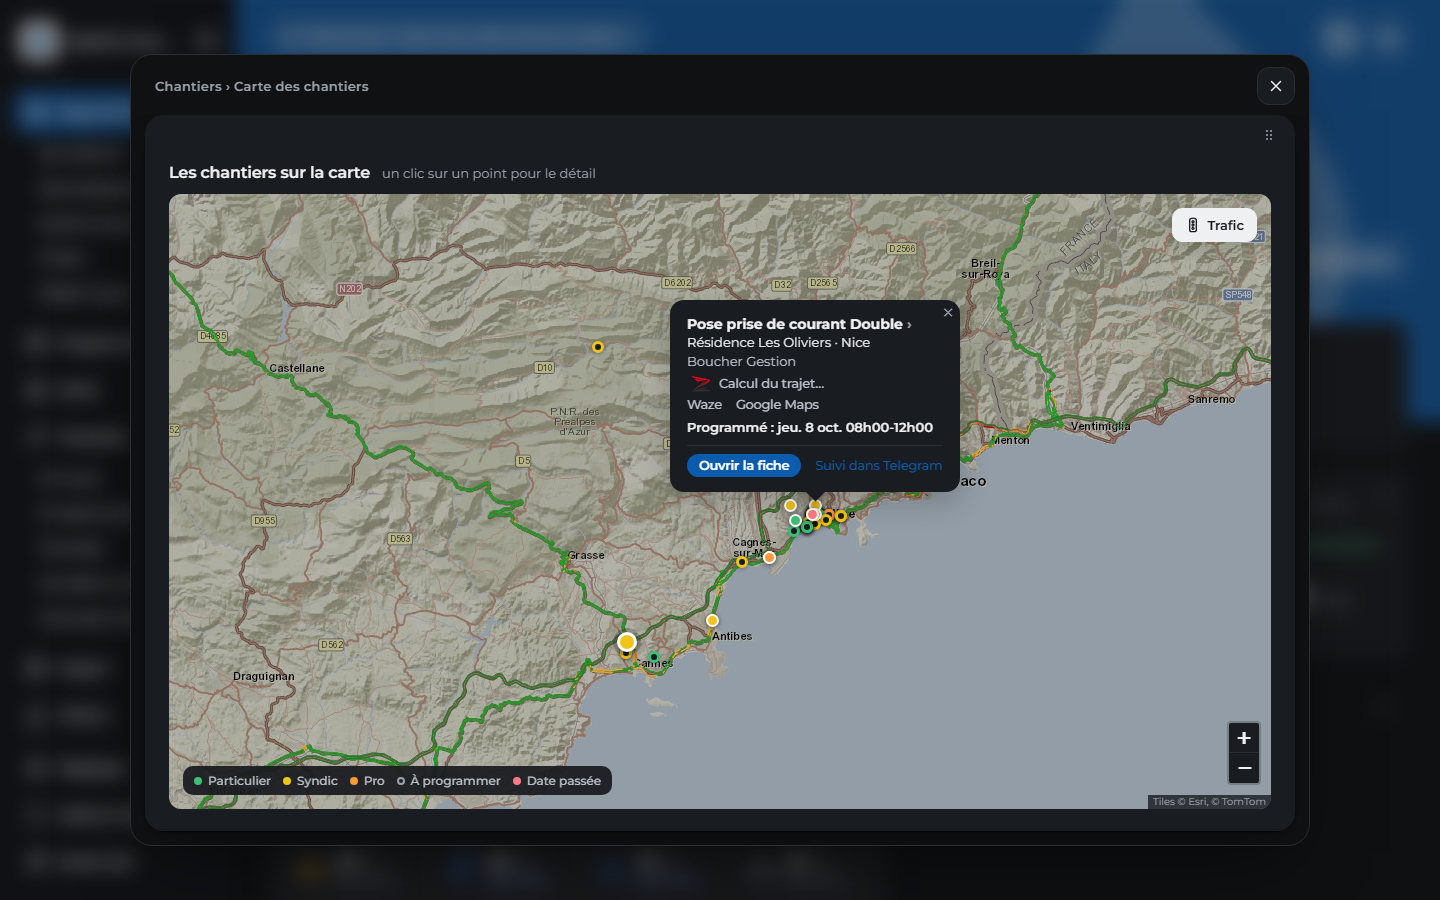
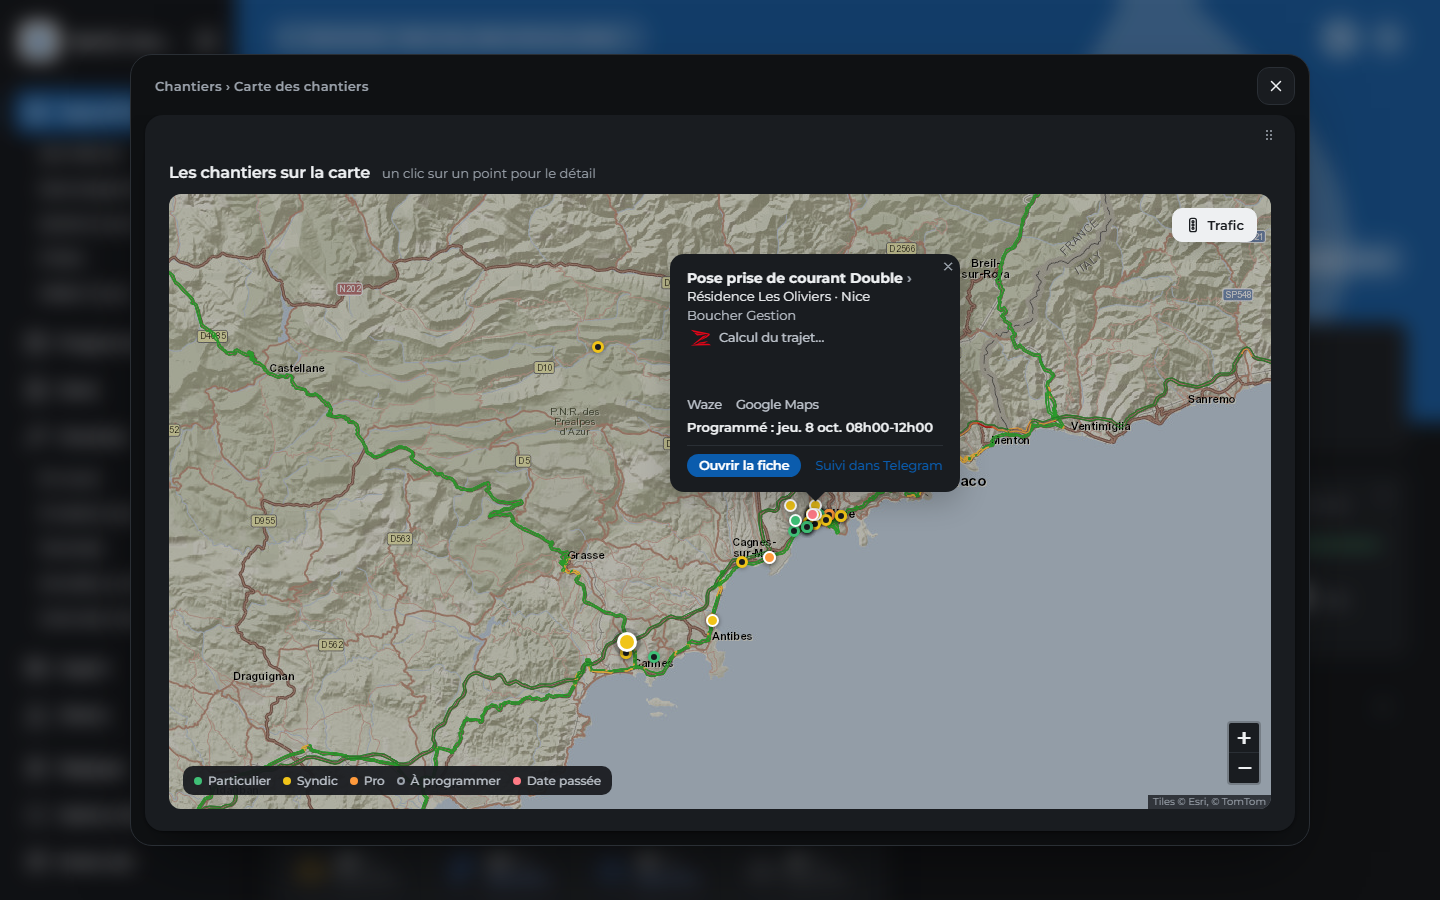
Page Zelus : trajet qui se calcule (icone Z), releve pour le comptable, plafond auto-entrepreneur (bientot)

Changed region(s): [[0.4375, 0.28, 0.6875, 0.4356], [0.4375, 0.7156, 0.4688, 0.7467]]

diff --git a/src/app/zelus/ZelusClient.jsx b/src/app/zelus/ZelusClient.jsx
@@ -416,6 +416,81 @@ const CgvDemo = () => {
   );
 };
 
+// Carte : la bulle calcule le trajet puis l'affiche (deux captures identiques hors de la ligne du trajet)
+const MapTrajet = ({ onZoom }) => {
+  const ref = useRef(null);
+  const t = useLoop(ref, 7);
+  const done = t >= 0.35 && t < 0.97;
+  return (
+    <div ref={ref} className="relative overflow-hidden rounded-2xl border border-white/10 shadow-[0_20px_60px_rgba(0,0,0,0.5)]">
+      <button type="button" onClick={() => onZoom({ src: `${IMG}/carte-trajet.png`, alt: "Carte des chantiers" })} className="block w-full">
+        <img src={`${IMG}/carte.png`} alt="Carte des chantiers : calcul du trajet en cours" className="w-full h-auto block" />
+        <img src={`${IMG}/carte-trajet.png`} alt="Carte des chantiers : trajet calculé, 22 minutes" className="absolute inset-0 w-full h-auto block transition-opacity duration-500" style={{ opacity: done ? 1 : 0 }} />
+      </button>
+    </div>
+  );
+};
+
+// Capture longue qui défile dans un cadre d'écran d'ordinateur
+const ScrollShot = ({ src, h, alt, seconds = 16, onZoom }) => {
+  const ref = useRef(null);
+  const t = useLoop(ref, seconds);
+  const k = easeIO(prog(t, 0.1, 0.85)) * (1 - prog(t, 0.93, 1));
+  const shift = (1 - 900 / h) * 100 * k;
+  return (
+    <div ref={ref} className="rounded-2xl border border-white/10 bg-neutral-900 p-2 shadow-[0_20px_60px_rgba(0,0,0,0.5)]">
+      <div className="flex items-center gap-1.5 px-2 pb-2">
+        <span className="w-2.5 h-2.5 rounded-full bg-white/15" /><span className="w-2.5 h-2.5 rounded-full bg-white/15" /><span className="w-2.5 h-2.5 rounded-full bg-white/15" />
+        <span className="ml-3 rounded-md bg-white/5 px-3 py-0.5 text-[11px] text-gray-500">myzelus.fr/tableau · Relevé comptable</span>
+      </div>
+      <button type="button" onClick={() => onZoom({ src: `${IMG}/${src}`, alt })} className="relative block w-full overflow-hidden rounded-xl aspect-[1440/900]">
+        <img src={`${IMG}/${src}`} alt={alt} className="absolute top-0 left-0 w-full" style={{ transform: `translateY(-${shift}%)` }} />
+      </button>
+    </div>
+  );
+};
+
+// Auto-entrepreneur : jauge du chiffre d'affaires de l'année face au seuil de la franchise (illustration, sans montant de seuil)
+const PlafondDemo = () => {
+  const ref = useRef(null);
+  const t = useLoop(ref, 10);
+  const pct = Math.round(easeIO(prog(t, 0.05, 0.75)) * 104);
+  const etat = pct >= 100 ? 2 : pct >= 85 ? 1 : 0;
+  const coul = ["#22c55e", "#f59e0b", "#ef4444"][etat];
+  const msgs = [
+    { t: "📊 Franchise de TVA\nEncaissé depuis le 1er janvier : " + pct + " % du seuil de l'année.", on: true },
+    { t: "⚠ Seuil de la franchise en vue\nVous approchez du seuil. Parlez-en à votre comptable.", on: etat >= 1 },
+    { t: "🔴 Seuil dépassé\nLa TVA s'applique désormais. Vos prochains devis et factures passeront avec TVA.", on: etat >= 2 },
+  ];
+  return (
+    <div ref={ref} className="space-y-4">
+      <div className="rounded-2xl border border-white/10 bg-[#121417] p-6">
+        <div className="flex items-baseline justify-between mb-3">
+          <div className="text-white font-semibold">Chiffre d'affaires de l'année</div>
+          <div className="text-3xl font-bold tabular-nums" style={{ color: coul }}>{pct} %</div>
+        </div>
+        <div className="relative h-4 rounded-full bg-white/5 overflow-hidden">
+          <div className="h-full rounded-full transition-colors duration-500" style={{ width: Math.min(pct, 100) + "%", background: coul }} />
+        </div>
+        <div className="relative h-5 mt-1 text-[11px] text-gray-500">
+          <span className="absolute -translate-x-1/2" style={{ left: "85%" }}>alerte</span>
+          <span className="absolute right-0">seuil</span>
+        </div>
+        <div className="text-xs text-gray-500 mt-1">mention « TVA non applicable, art. 293 B du CGI » sur vos devis et factures tant que vous êtes sous le seuil</div>
+      </div>
+      <div className="space-y-2">
+        {msgs.map((m, i) => (
+          <motion.div key={i} initial={false} animate={{ opacity: m.on ? 1 : 0.15, y: m.on ? 0 : 6 }} transition={{ duration: 0.4 }}
+            className="rounded-2xl rounded-bl-md bg-[#182533] border border-white/5 px-4 py-3 text-[13px] text-gray-100 whitespace-pre-line">
+            <div className="flex items-center gap-2 text-[11px] text-[#6c8aa5] mb-1"><img src={`${IMG}/icone-zelus.svg`} alt="" className="w-4 h-4" />Telegram · Zelus</div>
+            {m.t}
+          </motion.div>
+        ))}
+      </div>
+    </div>
+  );
+};
+
 // Bandeau défilant des fonctionnalités
 const Marquee = ({ items }) => {
   const reduce = useReducedMotion();
@@ -522,7 +597,7 @@ const OptionTag = ({ children }) => (
 );
 
 // Bloc fonctionnalité : texte d'un côté, visuel de l'autre, en alternance.
-const Feature = ({ id, icon: Icon, kicker, title, text, bullets, example, option, visual, reverse }) => (
+const Feature = ({ id, icon: Icon, kicker, title, text, bullets, example, option, soon, visual, reverse }) => (
   <section id={id} className="scroll-mt-28 py-16 md:py-24 border-t border-white/5">
     <div className={`grid grid-cols-1 lg:grid-cols-2 gap-12 lg:gap-16 items-center`}>
       <Reveal className={reverse ? "lg:order-2" : ""}>
@@ -532,6 +607,7 @@ const Feature = ({ id, icon: Icon, kicker, title, text, bullets, example, option
           </div>
           <span className="text-sm uppercase tracking-widest text-gray-400 font-semibold">{kicker}</span>
           {option && <OptionTag>{option}</OptionTag>}
+          {soon && <span className="inline-flex items-center rounded-full border border-sky-400/30 bg-sky-400/10 px-3 py-1 text-xs font-medium text-sky-300">Bientôt</span>}
         </div>
         <h3 className="text-3xl md:text-4xl font-semibold tracking-tight text-white mb-5">{title}</h3>
         <p className="text-gray-400 text-lg leading-relaxed">{text}</p>
@@ -591,7 +667,7 @@ const devisTabs = [
   { key: "par", label: "Particulier", icon: Home, img: "devis-par.png", rule: "Droit de rétractation de 14 jours, case « je demande que les travaux débutent avant la fin du délai », TVA réduite selon les travaux." },
   { key: "pro", label: "Professionnel", icon: Briefcase, img: "devis-pro.png", rule: "Conditions entre professionnels, SIRET du client, autoliquidation de la TVA en sous-traitance avec la bonne mention imprimée." },
   { key: "syn", label: "Syndic", icon: Building2, img: "devis-syn.png", rule: "Le syndicat des copropriétaires en client, le syndic comme représentant, le gestionnaire à l'attention, le contact sur place, la question du passage en AG." },
-  { key: "micro", label: "Auto-entrepreneur", icon: ShieldCheck, img: "devis-micro.png", rule: "« TVA non applicable, art. 293 B du CGI » sur chaque devis et facture, et un œil sur votre chiffre d'affaires de l'année." },
+  { key: "micro", label: "Auto-entrepreneur", icon: ShieldCheck, img: "devis-micro.png", rule: "Bientôt : « TVA non applicable, art. 293 B du CGI » sur chaque devis et facture, et un œil sur votre chiffre d'affaires de l'année." },
 ];
 
 const dashTabs = [
@@ -599,7 +675,7 @@ const dashTabs = [
   { key: "meteo", label: "Météo 7 jours", img: "meteo-7-jours.png", text: "Vos chantiers prévus jour par jour, sous la météo de Nice. Une vigilance orange orages jeudi : Zelus signale les chantiers sous la pluie et dans le vent, pour prévenir les clients à temps." },
   { key: "retards", label: "Qui relancer", img: "retards.png", text: "Les factures en retard, les plus grosses en premier. Un bouton pour relancer, un autre pour marquer « payée »." },
   { key: "agenda", label: "Agenda", render: "agenda", text: "Glissez un chantier de la liste « À programmer » sur un jour du mois : Zelus ouvre la programmation avec les heures, et le chantier se pose dans l'agenda." },
-  { key: "carte", label: "Carte", img: "carte.png", text: "Tous vos chantiers sur la carte. Un clic sur un point : le chantier, son rendez-vous, et le temps de trajet calculé depuis votre entreprise, avec Waze et Google Maps en un clic." },
+  { key: "carte", label: "Carte", render: "carte", img: "carte-trajet.png", text: "Tous vos chantiers sur la carte. Un clic sur un point : le chantier, son rendez-vous, et le temps de trajet calculé depuis votre entreprise, avec Waze et Google Maps en un clic." },
   { key: "chiffres", label: "Les chiffres", render: "stats", text: "Montant signé, taux de transformation, montant moyen, et l'argent signé, facturé et encaissé mois par mois, sur la période de votre choix." },
 ];
 
@@ -649,7 +725,7 @@ const allFeatures = [
     ["Catalogue de prestations avec prix et unités", B], ["Nouvelle prestation créée en cours de devis", B], ["Lieux d'intervention et contacts sur place", B],
     ["Particularités du chantier", B], ["Résumé avant génération", B], ["Devis PDF à vos couleurs", B], ["Envoi par mail depuis votre adresse", B],
     ["Modification après envoi (V2, V3)", B], ["Mentions selon le type de client", B], ["Rétractation pour les particuliers", B], ["CGV dans le devis, adaptées au client", B], ["Articles renumérotés selon le régime", B],
-    ["Auto-entrepreneur : franchise de TVA et suivi du plafond", B], ["Devis rangé dans le Drive du client", B],
+    ["Auto-entrepreneur : franchise de TVA et alertes du plafond", "À venir"], ["Devis rangé dans le Drive du client", B],
   ] },
   { cat: "Signature", items: [
     ["Signature en ligne, sur téléphone ou ordinateur", B], ["Acceptation manuelle", B], ["Devis signé régénéré avec la signature", B],
@@ -661,7 +737,7 @@ const allFeatures = [
   { cat: "Factures", items: [
     ["Facture d'acompte automatique à la signature", B], ["Facture de solde en fin de chantier", B], ["Aperçu avant émission", B],
     ["Facture d'intervention (dépannage payé sur place)", B], ["Facture acquittée", B], ["Avoirs", B], ["Facture électronique avec fichier de données", B],
-    ["Facture jointe au mail", B], ["Numérotation sans trou", B], ["Règlements et mode de paiement", B], ["Relevé comptable", B],
+    ["Facture jointe au mail", B], ["Numérotation sans trou", B], ["Règlements et mode de paiement", B], ["Relevé comptable du mois", B], ["Relevé en PDF et en Excel pour le comptable", B],
   ] },
   { cat: "Chantiers", items: [
     ["Créneaux libres de votre agenda Google", B], ["Conflit de créneau signalé", B], ["Reprogrammer, reporter, redonner une date", B],
@@ -711,7 +787,7 @@ const faqs = [
   { q: "Faut-il installer un logiciel ?", a: "Non. Zelus fonctionne dans Telegram, une application de messagerie gratuite que vous installez sur votre téléphone comme WhatsApp. Le tableau de bord s'ouvre dans votre navigateur, sur ordinateur comme sur téléphone, avec un lien qui vous est propre." },
   { q: "Pourquoi Telegram et pas une application ?", a: "Parce que vous savez déjà envoyer un message. Pas de formulaire à remplir, pas de menus cachés : des questions, des boutons, et vous pouvez dicter. Ça marche sur le chantier, entre deux rendez-vous, d'une seule main." },
   { q: "Où sont mes données ?", a: "Chez vous. Chaque artisan a sa propre base de données, que vous pouvez consulter à tout moment. Les mails partent de votre adresse, les documents sont rangés dans votre Google Drive, les chantiers dans votre agenda Google." },
-  { q: "Mes devis et factures sont-ils conformes ?", a: "Les mentions changent selon le client : rétractation pour un particulier, autoliquidation en sous-traitance, syndicat des copropriétaires représenté par son syndic, franchise de TVA pour un auto-entrepreneur. Les factures sont produites au format de la facture électronique, avec leur fichier de données intégré." },
+  { q: "Mes devis et factures sont-ils conformes ?", a: "Les mentions changent selon le client : rétractation pour un particulier, autoliquidation en sous-traitance, syndicat des copropriétaires représenté par son syndic, et bientôt la franchise de TVA pour un auto-entrepreneur. Les factures sont produites au format de la facture électronique, avec leur fichier de données intégré." },
   { q: "Je travaille seul, est-ce fait pour moi ?", a: "C'est précisément pour vous. Zelus a été pensé pour l'artisan qui fait tout lui-même et rédige ses devis le soir. Un utilisateur est inclus ; si un salarié l’utilise aussi (secrétaire, associé, chef d’équipe), c’est 19 € par mois et par utilisateur en plus." },
   { q: "Est-ce que je peux l'essayer ?", a: "Oui. Le plus simple est d'en parler : on vous montre Zelus avec des exemples de votre métier, puis on configure votre bot avec votre logo, vos couleurs et votre catalogue de prestations." },
   { q: "Combien ça coûte ?", a: "Une mise en place de 990 €, une seule fois. Ensuite, 149 € par mois pour l'abonnement de base, ou 249 € par mois pour le pack complet avec toutes les options. Sans engagement, et 10 mois payés pour 12 si vous réglez à l'année. Pour les 10 premiers clients, jusqu'au 31 décembre 2026 : le pack complet à 149 € par mois. Prix nets : TVA non applicable, art. 293 B du CGI." },
@@ -746,7 +822,7 @@ export default function ZelusClient() {
 
   const sommaire = [
     ["#tableau", "Tableau de bord"], ["#devis", "Devis"], ["#documents", "Documents"], ["#cgv", "CGV"], ["#signature", "Signature"], ["#relances", "Relances"],
-    ["#factures", "Factures"], ["#chantiers", "Chantiers"], ["#suivi", "Suivi"], ["#rapport", "Rapport"],
+    ["#factures", "Factures"], ["#releve", "Comptable"], ["#chantiers", "Chantiers"], ["#suivi", "Suivi"], ["#rapport", "Rapport"],
     ["#tarifs", "Tarifs"], ["#faq", "FAQ"],
   ];
 
@@ -939,6 +1015,7 @@ export default function ZelusClient() {
                 <div>
                   {dash.render === "agenda" ? <AgendaDemo onZoom={setZoom} />
                     : dash.render === "stats" ? <LiveStats />
+                    : dash.render === "carte" ? <MapTrajet onZoom={setZoom} />
                     : <Shot src={`${IMG}/${dash.img}`} alt={`Tableau de bord Zelus : ${dash.label}`} onZoom={setZoom} />}
                   <p className="text-gray-300 mt-4">{dash.text}</p>
                 </div>
@@ -1062,6 +1139,31 @@ export default function ZelusClient() {
           />
 
           <Feature
+            id="releve" icon={FileText} kicker="Comptabilité" reverse
+            title="Le relevé du mois, prêt pour votre comptable"
+            text="Fin du mois, votre comptable vous demande vos ventes ? Le relevé est déjà fait. Il s'ouvre sur le mois écoulé, celui que le comptable attend, et se télécharge en PDF ou en Excel en un clic."
+            bullets={[
+              "Ventes du mois, factures et avoirs : numéro, date, client, HT, TVA, TTC, état",
+              "TVA par taux (5,5 %, 10 %, 20 %) et ventes sans TVA à part",
+              "Encaissements du mois avec le mode de règlement",
+              "Factures non réglées à ce jour, et règlements à compléter",
+              "Devis signés et chantiers terminés du mois, pour suivre l'activité",
+              "Excel pour le comptable : onglets Ventes, Encaissements et TVA",
+            ]}
+            example="Le 2 novembre, votre comptable demande octobre. Vous ouvrez le relevé, « Excel pour le comptable », et le fichier part dans son mail. Deux minutes au lieu d'un dimanche à trier des factures."
+            visual={
+              <div>
+                <ScrollShot src="releve-comptable-long.png" h={7791} alt="Relevé comptable du mois dans le tableau de bord Zelus" onZoom={setZoom} />
+                <div className="flex flex-wrap gap-2 mt-4">
+                  {["Télécharger en PDF", "Excel pour le comptable", "13 derniers mois"].map((x) => (
+                    <span key={x} className="rounded-full border border-white/10 bg-white/5 px-3 py-1.5 text-sm text-gray-300">{x}</span>
+                  ))}
+                </div>
+              </div>
+            }
+          />
+
+          <Feature
             id="chantiers" icon={CalendarDays} kicker="Programmation" reverse
             title="Le chantier se programme, le client est prévenu"
             text="Une fois le devis signé, Zelus vous propose les créneaux libres de votre agenda Google, en tenant compte du délai de rétractation et de la durée estimée sur le devis. Le client reçoit un rappel deux jours avant. Un report, une pause, une annulation : le client est prévenu par un mail clair."
@@ -1116,19 +1218,27 @@ export default function ZelusClient() {
             visual={<TgPhone messages={convRapport} />}
           />
 
+          <Feature
+            id="micro" icon={ShieldCheck} kicker="Auto-entrepreneur" soon
+            title="Votre plafond de TVA sous surveillance"
+            text="En franchise de TVA, vos devis et factures partent sans TVA avec la mention « TVA non applicable, art. 293 B du CGI ». Zelus suit ce que vous encaissez depuis le 1er janvier et vous prévient avant le seuil, pas après."
+            bullets={[
+              "Devis, factures et facture électronique sans TVA, avec la bonne mention",
+              "Chiffre d'affaires de l'année suivi à chaque encaissement",
+              "Alerte dans Telegram à l'approche du seuil",
+              "Le jour où le seuil est dépassé : Zelus vous l'annonce et vos documents passent avec TVA",
+            ]}
+            example="Mi-novembre, vous avez encaissé 85 % du seuil de l'année. Zelus vous prévient dans Telegram : vous en parlez à votre comptable avant de signer le gros chantier de décembre, pas en janvier quand il est trop tard."
+            visual={<PlafondDemo />}
+          />
+
           {/* Fiches, micro, couleurs */}
           <section className="py-16 md:py-24 border-t border-white/5">
-            <div className="grid grid-cols-1 md:grid-cols-3 gap-6">
+            <div className="grid grid-cols-1 md:grid-cols-2 gap-6">
               <Reveal className="rounded-2xl border border-white/10 bg-neutral-900/50 p-7">
                 <Users className="w-6 h-6 text-red-500 mb-4" />
                 <h4 className="text-xl font-medium text-white mb-3">Fiches clients et lieux</h4>
                 <p className="text-gray-400 leading-relaxed">Chaque client a sa fiche : coordonnées, lieux d'intervention, contacts sur place, notes, devis et factures. Une fiche se corrige dans Telegram ou depuis le tableau de bord, un dossier Drive est créé pour chaque client.</p>
-              </Reveal>
-              <Reveal delay={0.08} className="rounded-2xl border border-white/10 bg-neutral-900/50 p-7">
-                <ShieldCheck className="w-6 h-6 text-red-500 mb-4" />
-                <h4 className="text-xl font-medium text-white mb-3">Auto-entrepreneur</h4>
-                <p className="text-gray-400 leading-relaxed mb-4">Devis et factures sans TVA avec la bonne mention, et un suivi de votre chiffre d'affaires de l'année. Zelus vous prévient à l'approche du plafond.</p>
-                <div className="rounded-xl bg-[#182533] text-gray-100 text-[13px] p-3 whitespace-pre-line">{convMicro[0].t}</div>
               </Reveal>
               <Reveal delay={0.16} className="rounded-2xl border border-white/10 bg-neutral-900/50 p-7">
                 <Palette className="w-6 h-6 text-red-500 mb-4" />
@@ -1355,8 +1465,8 @@ export default function ZelusClient() {
                     {c.items.map(([name, tag]) => (
                       <li key={name} className="flex items-center justify-between gap-4 px-5 py-2.5 border-b border-white/5 text-[15px] text-gray-200">
                         <span>{name}</span>
-                        <span className={`flex-shrink-0 rounded-full px-2.5 py-0.5 text-xs font-medium ${tag === B ? "bg-emerald-400/10 text-emerald-300" : "bg-amber-300/10 text-amber-300"}`}>
-                          {tag === B ? "Base" : `Option ${tag}`}
+                        <span className={`flex-shrink-0 rounded-full px-2.5 py-0.5 text-xs font-medium ${tag === B ? "bg-emerald-400/10 text-emerald-300" : tag === "À venir" ? "bg-sky-400/10 text-sky-300" : "bg-amber-300/10 text-amber-300"}`}>
+                          {tag === B ? "Base" : tag === "À venir" ? "Bientôt" : `Option ${tag}`}
                         </span>
                       </li>
                     ))}
